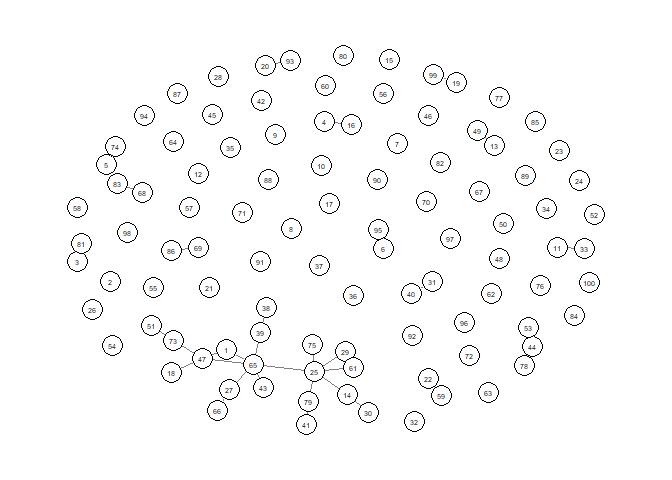
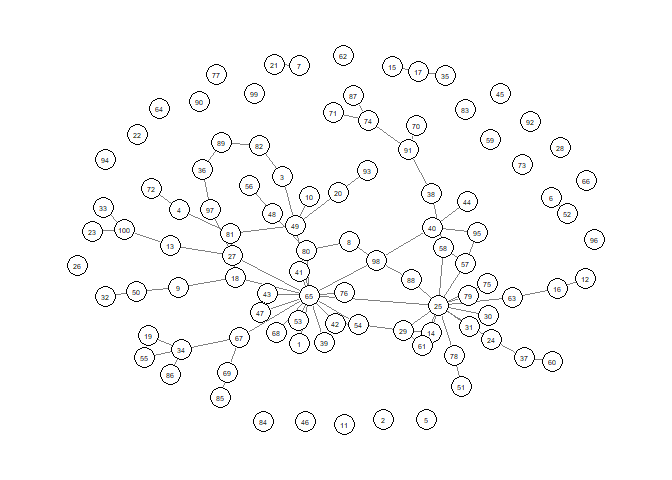
modifying readme examples

diff --git a/README.md b/README.md
@@ -24,22 +24,19 @@ devtools::install_github("AapoKorhonen/HMFGraph")
 ``` r
 library(HMFGraph)
 
+n <- 200
+p <- 100
+
 set.seed(42)
-generated_data <- data_generator(n=50, p = 100)
+generated_data <- data_generator(n=n, p = p)
 
-results_HMFGraph_GEM <- HMFGraph_GEM(generated_data$data, alpha = 0.8, beta=0.9)
-#> Iteration: 0, Relative Difference: 0.240216
-#> Iteration: 500, Relative Difference: 1.53883e-05
-#> Convergence reached at iteration: 719, Relative Difference: 9.97235e-07
+results_HMFGraph_GEM <- HMFGraph_GEM(generated_data$data, alpha = p*5/(p*5+n), beta=0.9)
 
-permutations <- HMFGraph_GEM_permutations(generated_data$data, results_HMFGraph_GEM)
-#> [1] "Starting permutations:"
+permutations <- HMFGraph_GEM_permutations(generated_data$data, results_HMFGraph_GEM, number_of_permutations = 100, parallel = F)
 
 results_FDR <- HMFGraph_GEM_FDR_control(results_HMFGraph_GEM, permutations, target_FDR = 0.2)
-#> [1] 1.452098
 
 library(qgraph)
-#> Warning: package 'qgraph' was built under R version 4.3.3
 
 qgraph(results_FDR$adjacency_matrix)
 ```
@@ -51,19 +48,17 @@ qgraph(results_FDR$adjacency_matrix)
 ``` r
 library(HMFGraph)
 
-set.seed(42)
-generated_data <- data_generator(n=50, p = 100)
+n <- 200
+p <- 100
 
-results_HMFGraph_GEM <- HMFGraph_GEM(generated_data$data, alpha =  0.8, beta=0.9)
-#> Iteration: 0, Relative Difference: 0.240216
-#> Iteration: 500, Relative Difference: 1.53883e-05
-#> Convergence reached at iteration: 719, Relative Difference: 9.97235e-07
+set.seed(42)
+generated_data <- data_generator(n=n, p = p)
+
+results_HMFGraph_GEM <- HMFGraph_GEM(generated_data$data, alpha =  p*5/(p*5+n), beta=0.9)
 
 permutations <- HMFGraph_GEM_permutations(generated_data$data, results_HMFGraph_GEM, number_of_permutations = 100, parallel = F)
-#> [1] "Starting permutations:"
 
 results_optimal_CI <- HMFGraph_GEM_optimal_CI(results_HMFGraph_GEM, permutations, expected_connections = 100)
-#> [1] 1.132835
 
 library(qgraph)
 
@@ -77,13 +72,13 @@ qgraph(results_optimal_CI$adjacency_matrix)
 ``` r
 library(HMFGraph)
 
-set.seed(42)
-generated_data <- data_generator(n=50, p = 100)
+n <- 200
+p <- 100
 
-results_HMFGraph_GEM <- HMFGraph_GEM(generated_data$data, alpha = 0.8, beta=0.9)
-#> Iteration: 0, Relative Difference: 0.240216
-#> Iteration: 500, Relative Difference: 1.53883e-05
-#> Convergence reached at iteration: 719, Relative Difference: 9.97235e-07
+set.seed(42)
+generated_data <- data_generator(n=n, p = p)
+
+results_HMFGraph_GEM <- HMFGraph_GEM(generated_data$data, alpha = p*5/(p*5+n), beta=0.9)
 
 results_CI <- HMFGraph_GEM_CI(results_HMFGraph_GEM, CI = 0.8)
 
@@ -99,10 +94,13 @@ qgraph(results_CI$adjacency_matrix)
 ``` r
 library(HMFGraph)
 
-set.seed(42)
-generated_data <- data_generator(n=50, p = 100)
+n <- 200
+p <- 100
 
-results_HMFGraph_gibbs <- HMFGraph_gibbs_sampler(generated_data$data, alpha = 0.8, beta=0.9, iters = 5000, burn_in = 1000)
+set.seed(42)
+generated_data <- data_generator(n=n, p = p)
+
+results_HMFGraph_gibbs <- HMFGraph_gibbs_sampler(generated_data$data, alpha = p*5/(p*5+n), beta=0.9, iters = 5000, burn_in = 1000)
 
 results_gibbs_CI <- HMFGraph_gibbs_CI(results_HMFGraph_gibbs, CI = 0.8)
 
